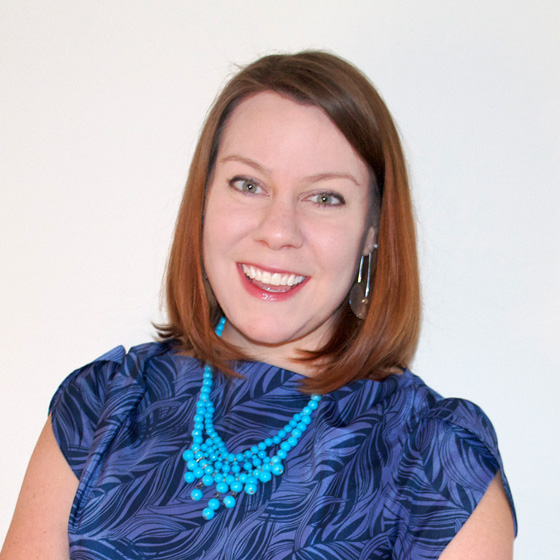
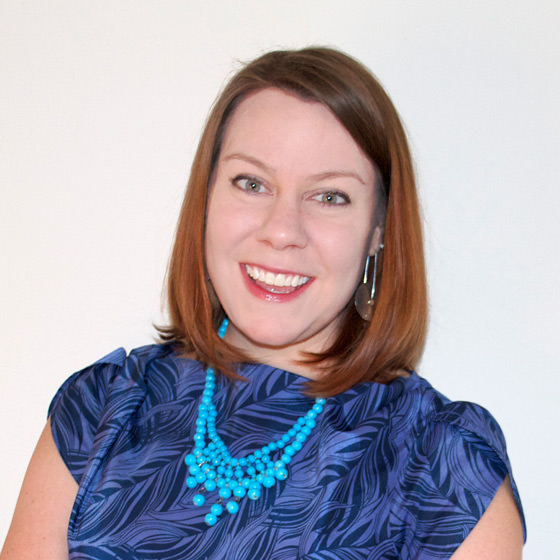
Added .htaccess and compressed profile images.
Added .htaccess and compressed profile images.

Changed region(s): [[0.0607, 0.0607, 0.9411, 1.0], [0.425, 0.425, 0.5768, 0.5464]]

diff --git a/index.html b/index.html
@@ -6,7 +6,7 @@
 <link rel="shortcut icon" type="image/x-icon" href="favicon.ico"/>
 
 <meta name="viewport" content="width=device-width, initial-scale=1">
-<meta name="description" content="Seth Akkerman is a product and interactive designer who likes to laugh with people.">
+<meta name="description" content="The Akkermans are Holly and Seth. We spit knowledge and crush wack crews.">
 <link href="assets/styles/main.css" rel="stylesheet" type="text/css">
 
 <script src="assets/js/modernizr.custom.01854.js"></script>
